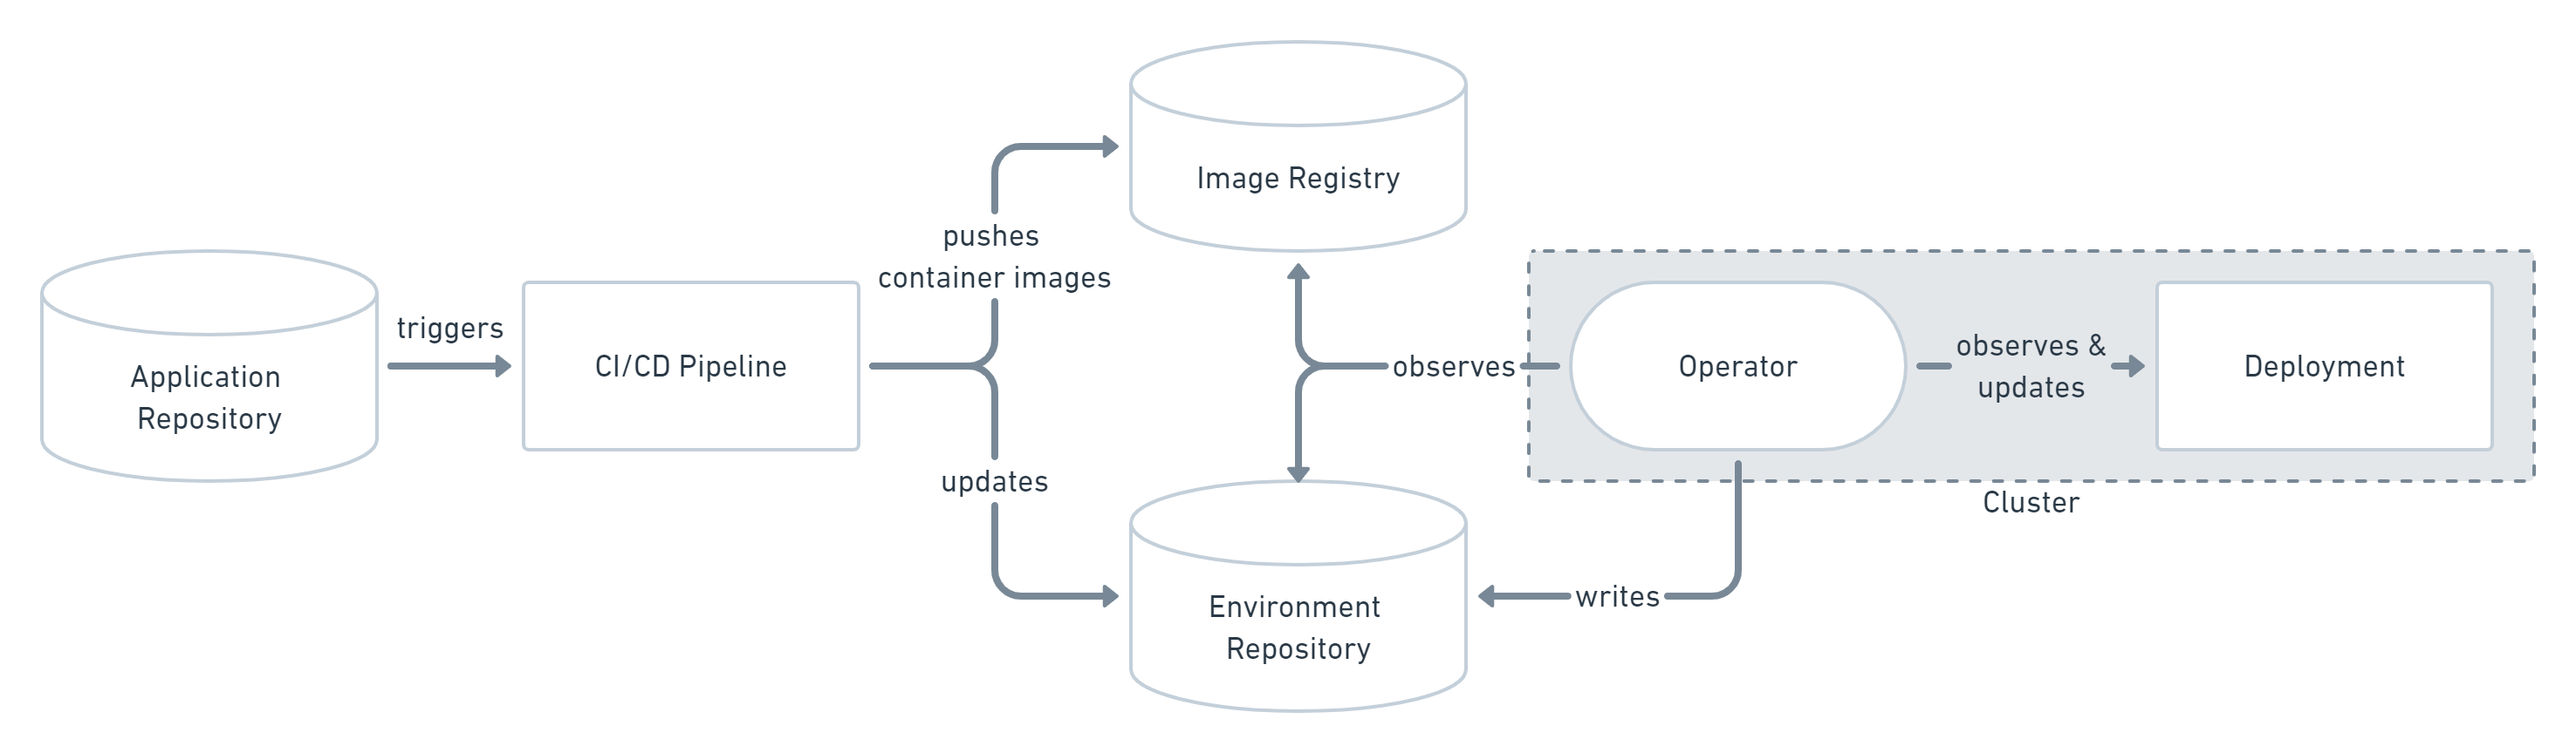
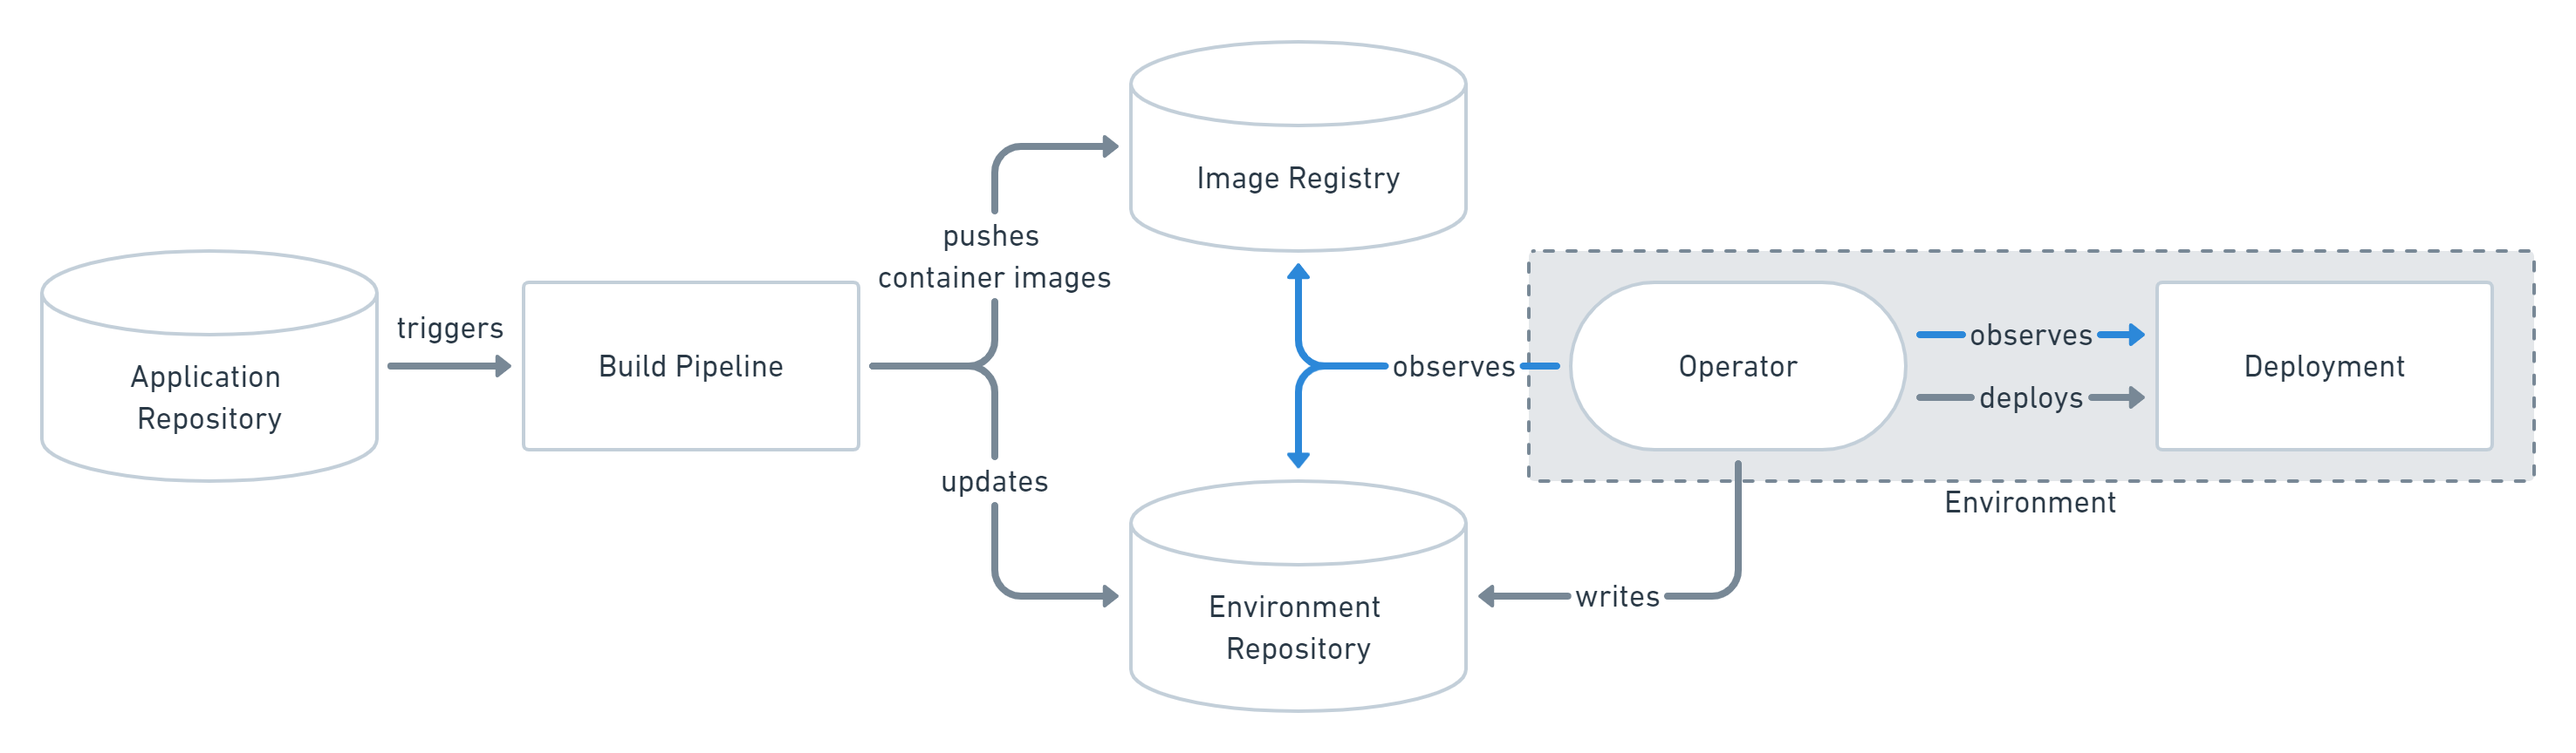
add feedback channel, color code pull/push

diff --git a/index.md b/index.md
@@ -82,28 +82,26 @@ The difference between the two types of GitOps, is how it is ensured, that the e
 
 Push-based GitOps works with regular CI/CD tools, such as [Jenkins](https://jenkins.io/), [CircleCI](https://circleci.com/) or [Travis CI](https://travis-ci.org/).
 The source code of your application lives inside the application repository along with your Kubernetes YAMLs needed to deploy your app.
-Whenever your application code is updated, the CI pipeline is triggered, your application is built, and finally the environment repository is updated with new deployment descriptors.
+Whenever your application code is updated, the build pipeline is triggered, which builds your container images, and finally the environment repository is updated with new deployment descriptors.
 
 Tip: You can also just store templates of your YAMLs in your application repository.
 When a new version is built, you can use the template to generate the YAML in your environment repository.
 
 ![Push-based GitOps](images/push.png)
 
-Changes to the environment repository trigger the Continuous Deployment pipeline.
-
-> > Simon: Unterschied CI zu CD pipeline? Wo liegt der genau?
-> 
-> Florian: Eigentlich nur darin, was die machen. CI baut und testet, CD deployed wirklich.
-> Sollte man das da noch erklären oder irgendwie vereinfachen?
-
+Changes to the environment repository trigger the deployment pipeline.
 This pipeline is responsible for applying all manifests in the environment repository to your infrastructure.
+
+One important thing to keep in mind when using this approach, is that the deployment pipeline *only* is triggered when your environment repository changes.
+It can not automatically notice any deviations of the environment and its desired state.
+This means, you need some way of monitoring in place, so that you can intervene if your environment doesn't match what is described in the environment repository.
 
 **Want to see how to set it up?** Check out [Google's Tutorial](https://cloud.google.com/kubernetes-engine/docs/tutorials/gitops-cloud-build) on how to set up Push-based GitOps with their Cloud Builds and GKE.
 
 
 ### Pull-based GitOps
 
-Pull-based GitOps uses the same concepts as the push-based variant, but changes how the Continuous Deployment pipeline works.
+Pull-based GitOps uses the same concepts as the push-based variant, but changes how the deployment pipeline works.
 Traditional CI/CD pipelines are triggered by an external event, for example when new code is pushed to an application repository.
 With this approach, the *operator* is introduced.
 It takes over the role of the pipeline by continuously comparing the desired state in the environment repository with the actual state in the deployed infrastructure.
@@ -117,6 +115,11 @@ However, with the operator, changes can also be noticed in the other direction.
 Whenever the deployed infrastructure changes in any way not described in the environment repository, these changes are reverted.
 This ensures that all changes are made tracable in the Git log, by making all direct changes to the cluster impossible.
 
+This change in direction solves the problem of push-based GitOps, where the environment is only updated when the environment repository is updated.
+However, this doesn't mean you can completely do without any monitoring in place.
+Most operators support sending mails or Slack notifications if it can not bring the environment to the desired state for any reason, for example if it can not pull a container image.
+Additionally, you probably should set up monitoring for the operator itself, as there is no longer any automated deployment process without it.
+
 <!-- **Want to see how to set it up?** Check out our [Case Study](case-study.md) about setting up Pull-based GitOps on Google's GKE. -->
 
 
@@ -126,13 +129,13 @@ Of course working with just one application repository and only one environment 
 When you are using a microservices architecture, you probably want to keep each service in its own repository.
 
 GitOps can also handle such a use case.
-You can always just set up multiple CI pipelines that update the environment repository.
+You can always just set up multiple build pipelines that update the environment repository.
 From there on the regular automated GitOps workflow kicks in and deploys all parts of your application.
 
 ![Multiple applications and environments](images/multiple.png)
 
 Managing multiple environments with GitOps can be done by just using separate branches in the environment repository.
-You can set up the operator or the CD pipeline to react to changes on one branch by deploying to the production environment and another to deploy to staging.
+You can set up the operator or the deployment pipeline to react to changes on one branch by deploying to the production environment and another to deploy to staging.
 
 
 ## FAQ
